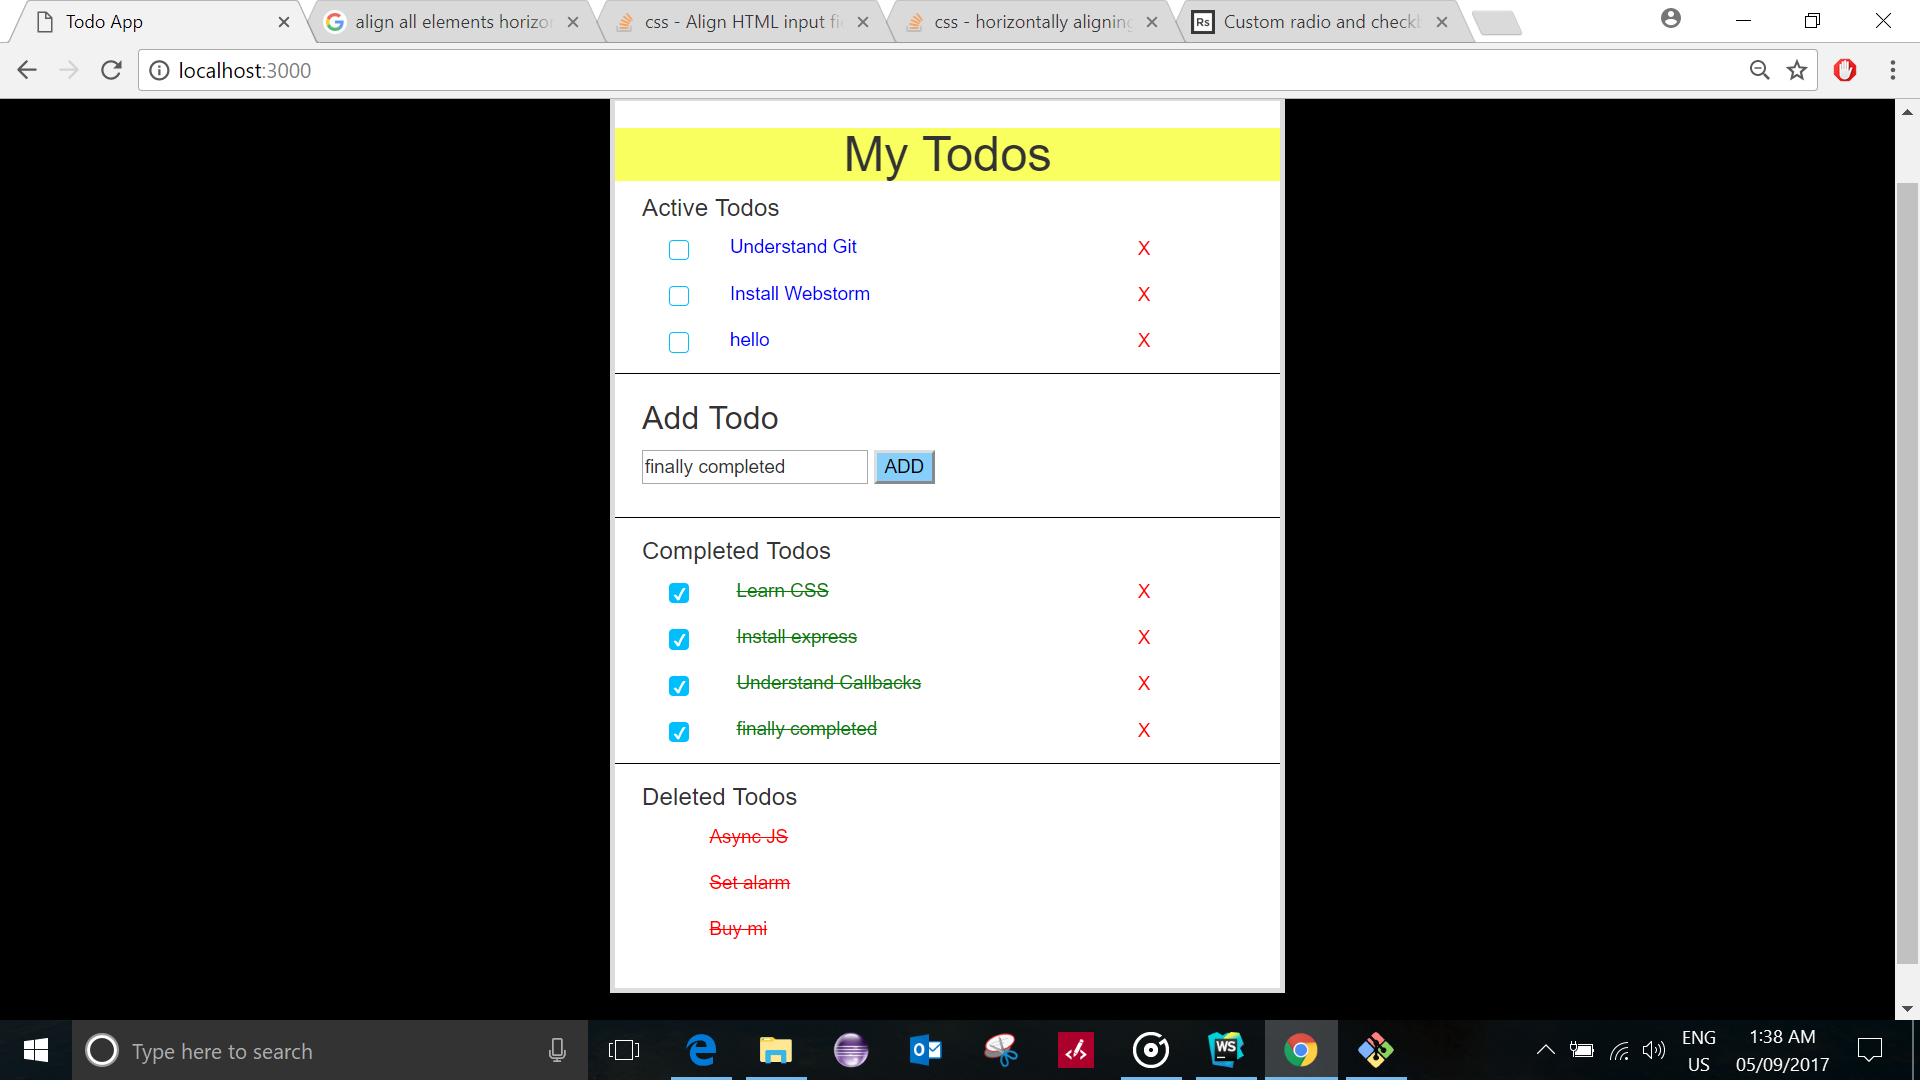
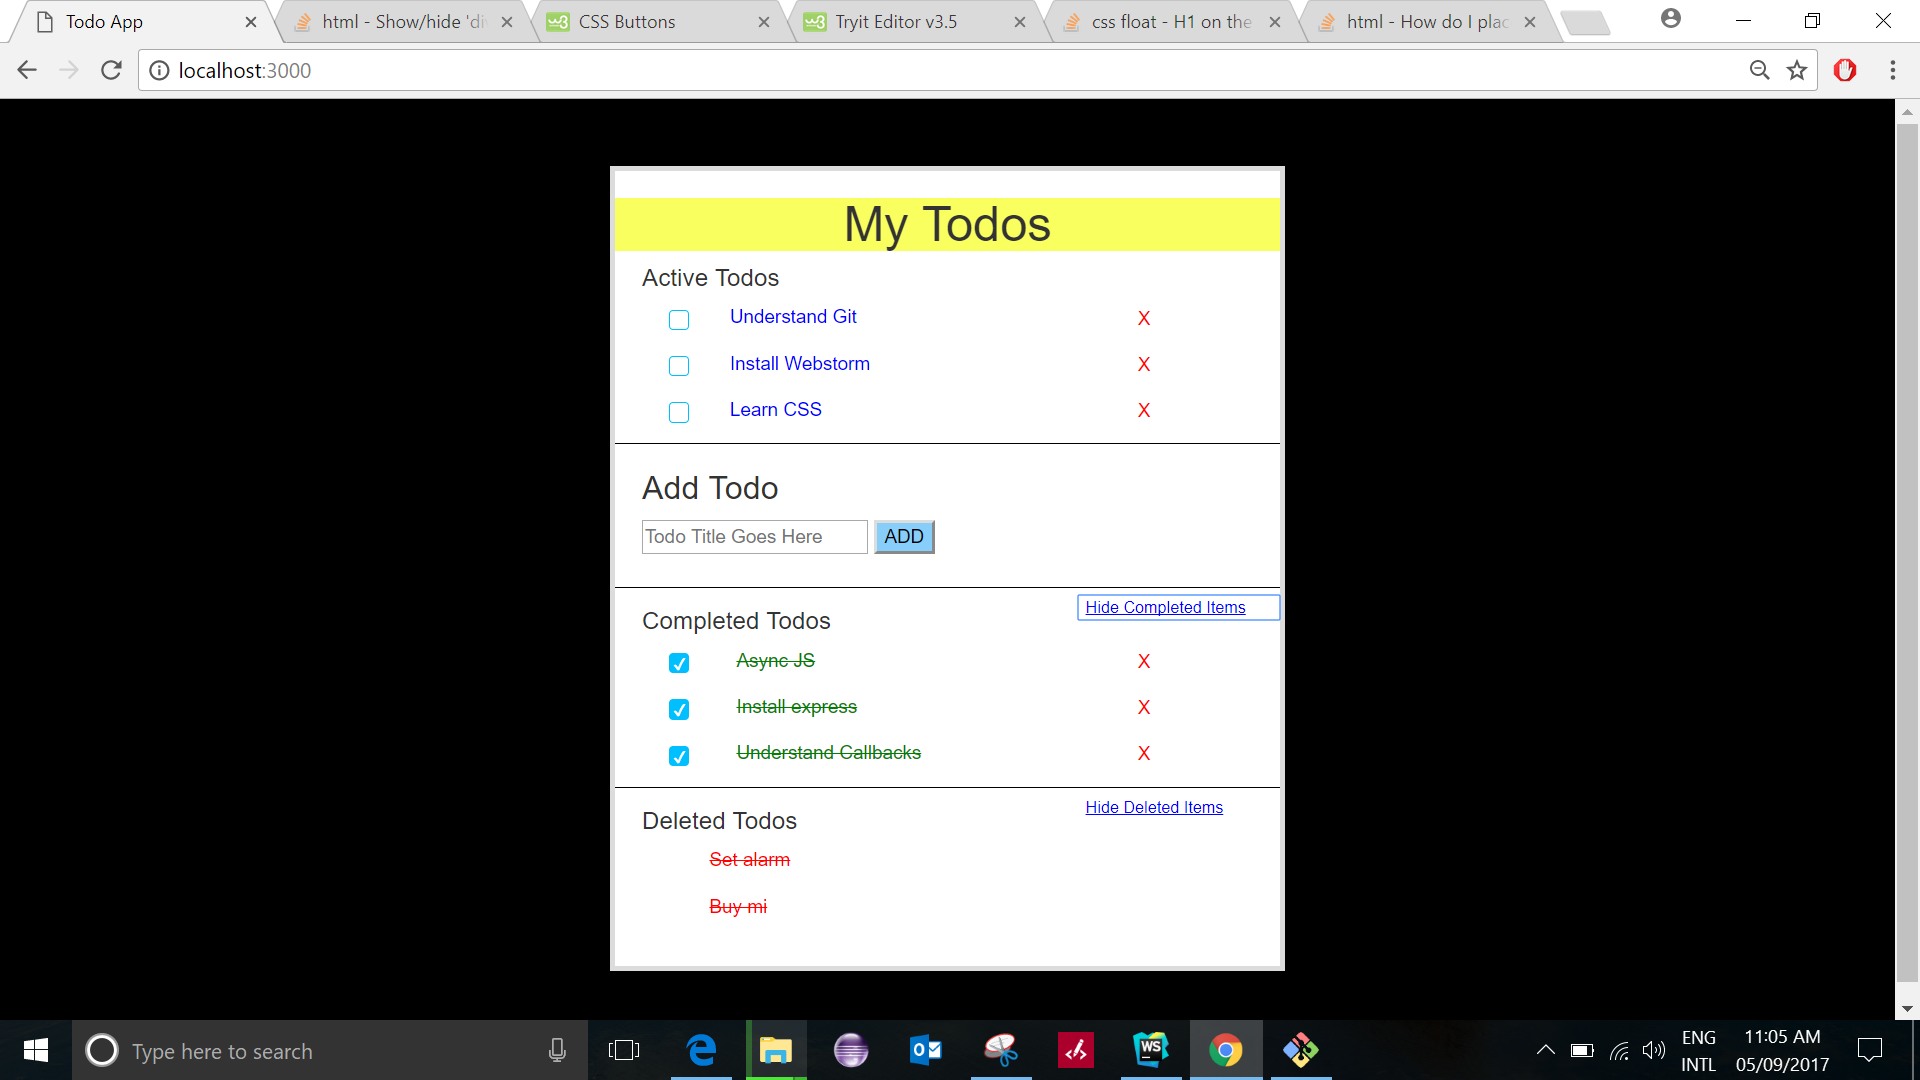
hide buttons added

diff --git a/public/script.js b/public/script.js
@@ -5,6 +5,8 @@ const TODOS_LIST_ID_ACTIVE = "todos_list_div_active";
 const TODOS_LIST_ID_COMPLETED = "todos_list_div_completed";
 const TODOS_LIST_ID_DELETED = "todos_list_div_deleted";
 const NEW_TODO_INPUT_ID = "new_todo_input";
+const HIDE_COMPLETE_BUTTON_ID = "hide_button_complete";
+const HIDE_DELETE_BUTTON_ID = "hide_button_delete";
 
 window.onload = getTodosAJAX();
 
@@ -128,6 +130,26 @@ function addTodoAJAX(){
         }
     }
     xhr.send(data);
+}
+
+function hideCompletedToDoAJAX(){
+    var elem = document.getElementById(TODOS_LIST_ID_COMPLETED);
+    if(elem.style.display=='none'){
+        elem.style.display = 'block';
+    }
+    else{
+        elem.style.display = 'none';
+    }
+}
+
+function hideDeletedToDoAJAX(){
+    var elem = document.getElementById(TODOS_LIST_ID_DELETED);
+    if(elem.style.display=='none'){
+        elem.style.display = 'block';
+    }
+    else{
+        elem.style.display = 'none';
+    }
 }
 
 function completeTodoAJAX(id){

diff --git a/public/styles.css b/public/styles.css
@@ -46,6 +46,31 @@ input[type=checkbox].check_active{
     /*border-radius: 3px;*/
 /*}*/
 
+#hide_button_complete{
+    -webkit-appearance: none;
+    width: 150px;
+    color: blue;
+    background: transparent;
+    border: transparent;
+    float: right;
+    font-size: 12px;
+    text-align: left;
+    text-decoration: underline;
+    padding-right: 30px;
+}
+
+#hide_button_delete{
+    -webkit-appearance: none;
+    width: 150px;
+    color: blue;
+    background: transparent;
+    border: transparent;
+    float: right;
+    padding-right: 30px;
+    font-size: 12px;
+    text-decoration: underline;
+    text-align: left;
+}
 
 .regular-checkbox {
     -webkit-appearance: none;

diff --git a/public/index.html b/public/index.html
@@ -27,11 +27,13 @@
 </div>
 
 <div id="complete_box">
+    <input type="button" id="hide_button_complete" value="Hide Completed Items" onclick="hideCompletedToDoAJAX()"/>
     <h4>Completed Todos</h4>
     <div id="todos_list_div_completed"></div>
 </div>
 
 <div id="delete_box">
+    <input type="button" id="hide_button_delete" value="Hide Deleted Items" onclick="hideDeletedToDoAJAX()"/>
     <h4>Deleted Todos</h4>
     <div id="todos_list_div_deleted"></div>
 </div>
